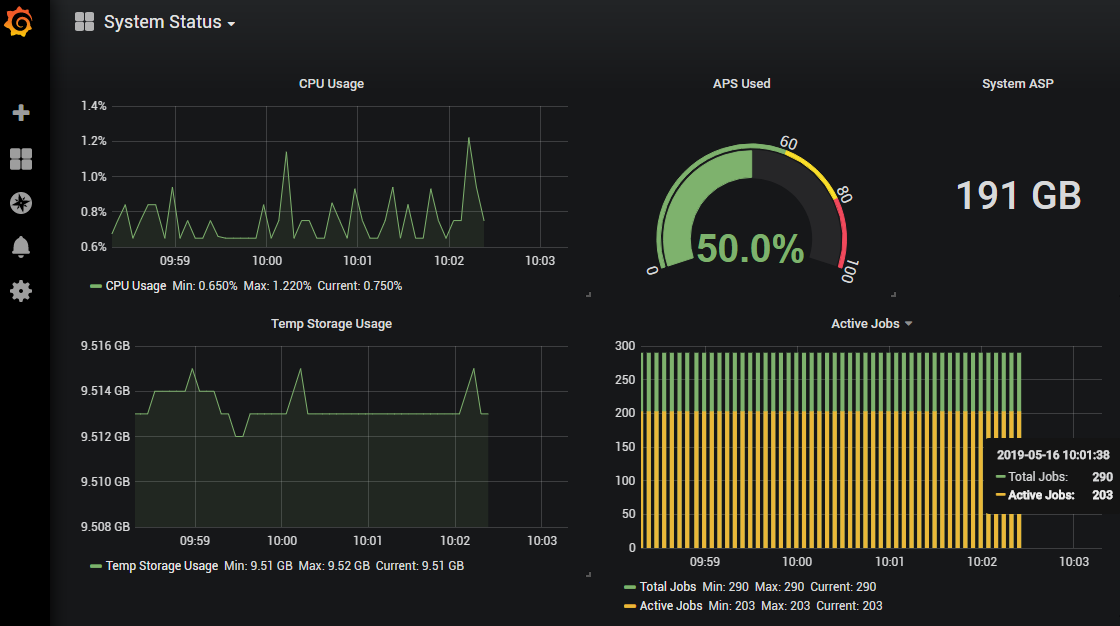
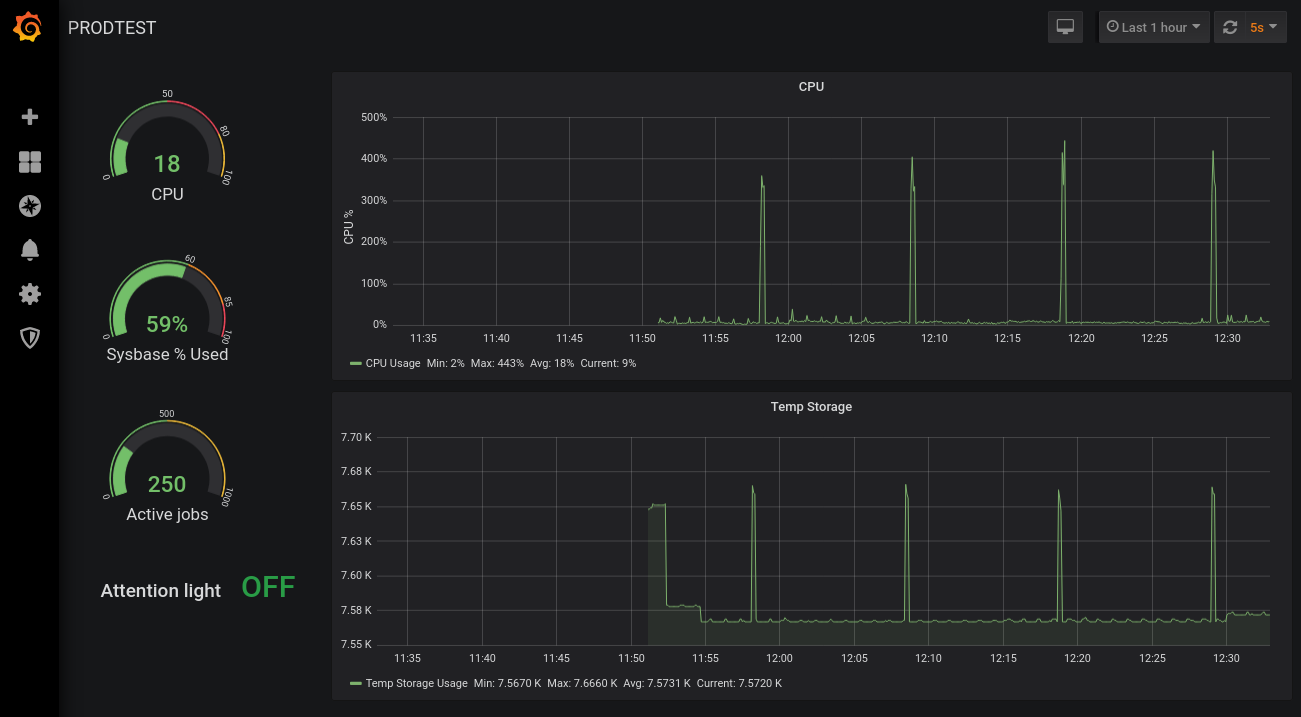
grafana additions (system asp used & attention light)
* added system asp used and attention light

diff --git a/nodejs/grafana-backend/index.js b/nodejs/grafana-backend/index.js
@@ -3,7 +3,7 @@ const bodyParser = require('body-parser');
 const _ = require('lodash');
 const {dbconn, dbstmt} = require('idb-connector');
 
-const sSql = 'SELECT AVERAGE_CPU_UTILIZATION, ACTIVE_JOBS_IN_SYSTEM, CURRENT_TEMPORARY_STORAGE FROM QSYS2.SYSTEM_STATUS_INFO';
+const sSql = "select AVERAGE_CPU_UTILIZATION, ACTIVE_JOBS_IN_SYSTEM, CURRENT_TEMPORARY_STORAGE, SYSTEM_ASP_USED, case when ATTENTION_LIGHT = 'OFF' then 0 else 1 end ATTENTION_LIGHT from QSYS2.SYSTEM_STATUS_INFO";
 
 const connection = new dbconn();
 connection.conn('*LOCAL');
@@ -18,6 +18,8 @@ const timeserie = [];
 timeserie[0] = { target: "CPU Usage", datapoints: []};
 timeserie[1] = { target: "Active Jobs", datapoints: []};
 timeserie[2] = { target: "Temp Storage Usage", datapoints: []};
+timeserie[3] = { target: "System ASP Used", datapoints: []};
+timeserie[4] = { target: "Attention Light", datapoints: []};
 
 function updateJSON() {
   const sys_usage = statement.execSync(sSql);
@@ -42,6 +44,18 @@ function updateJSON() {
     timeserie[2].datapoints.shift();
   timeserie[2].datapoints.push([
     parseInt(sys_usage[0].CURRENT_TEMPORARY_STORAGE), now
+  ]);
+
+  if(timeserie[3].datapoints.length > 500)
+    timeserie[3].datapoints.shift();
+  timeserie[3].datapoints.push([
+    parseInt(sys_usage[0].SYSTEM_ASP_USED), now
+  ]);
+
+  if(timeserie[4].datapoints.length > 500)
+    timeserie[4].datapoints.shift();
+  timeserie[4].datapoints.push([
+    parseInt(sys_usage[0].ATTENTION_LIGHT), now
   ]);
 }
 
